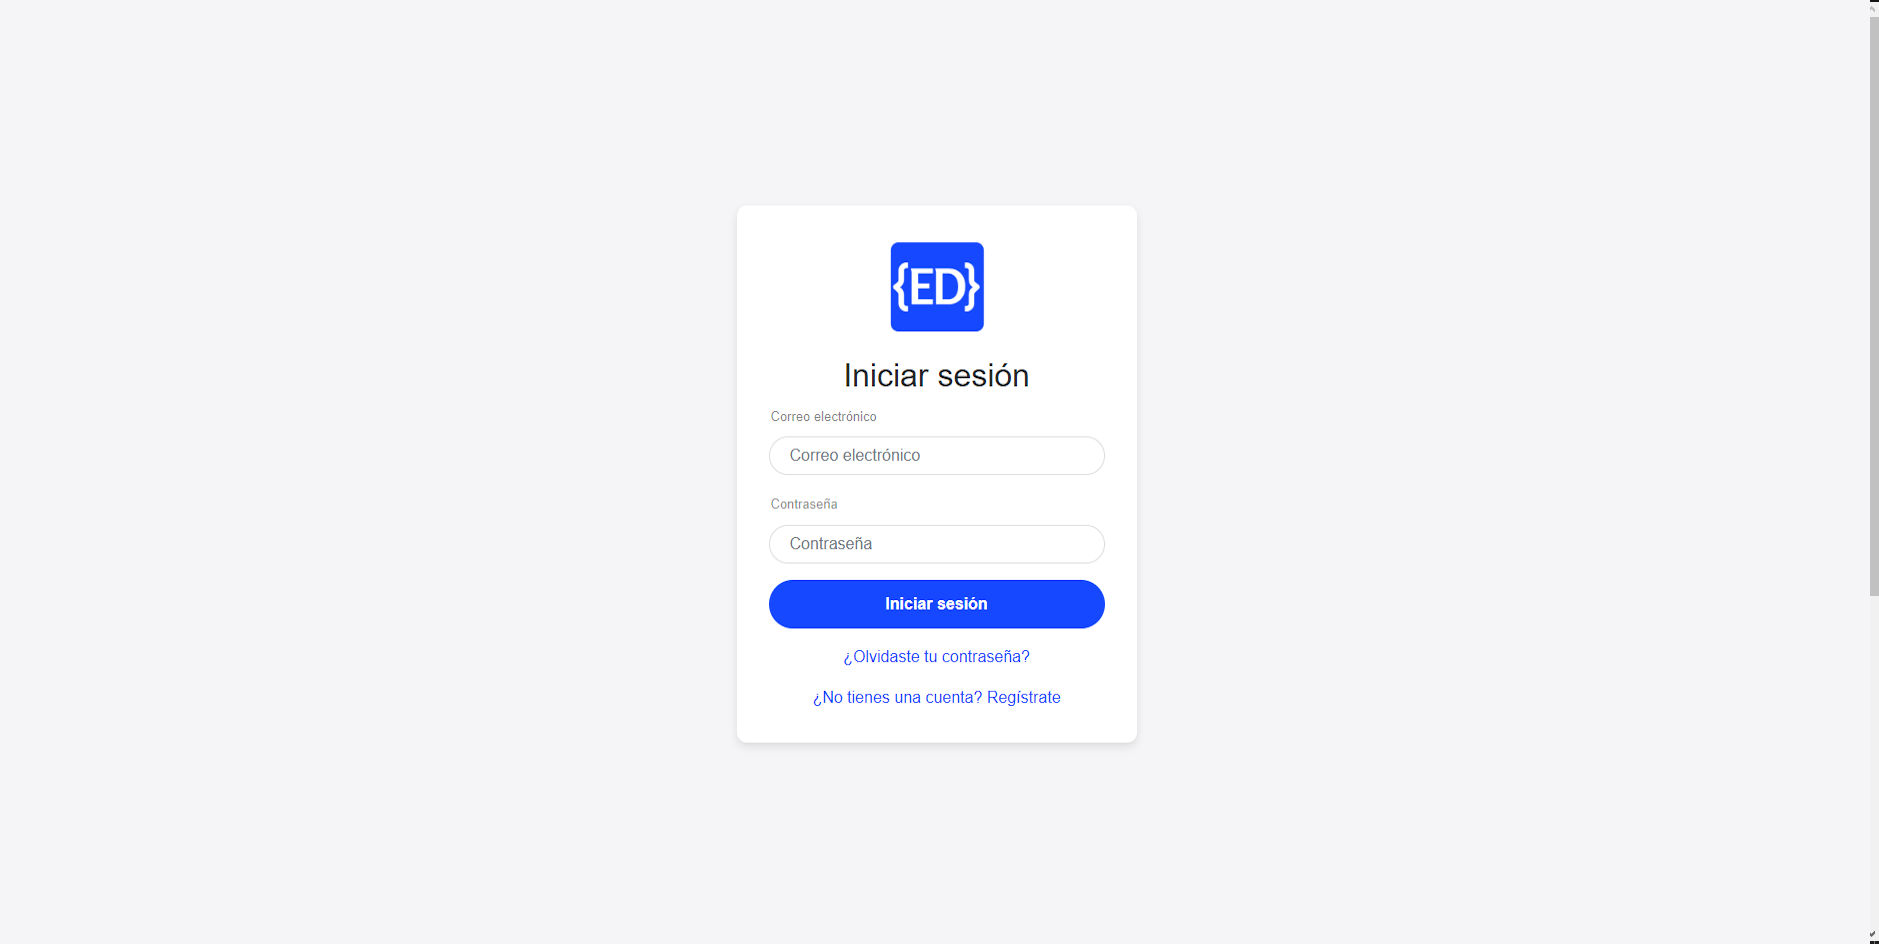
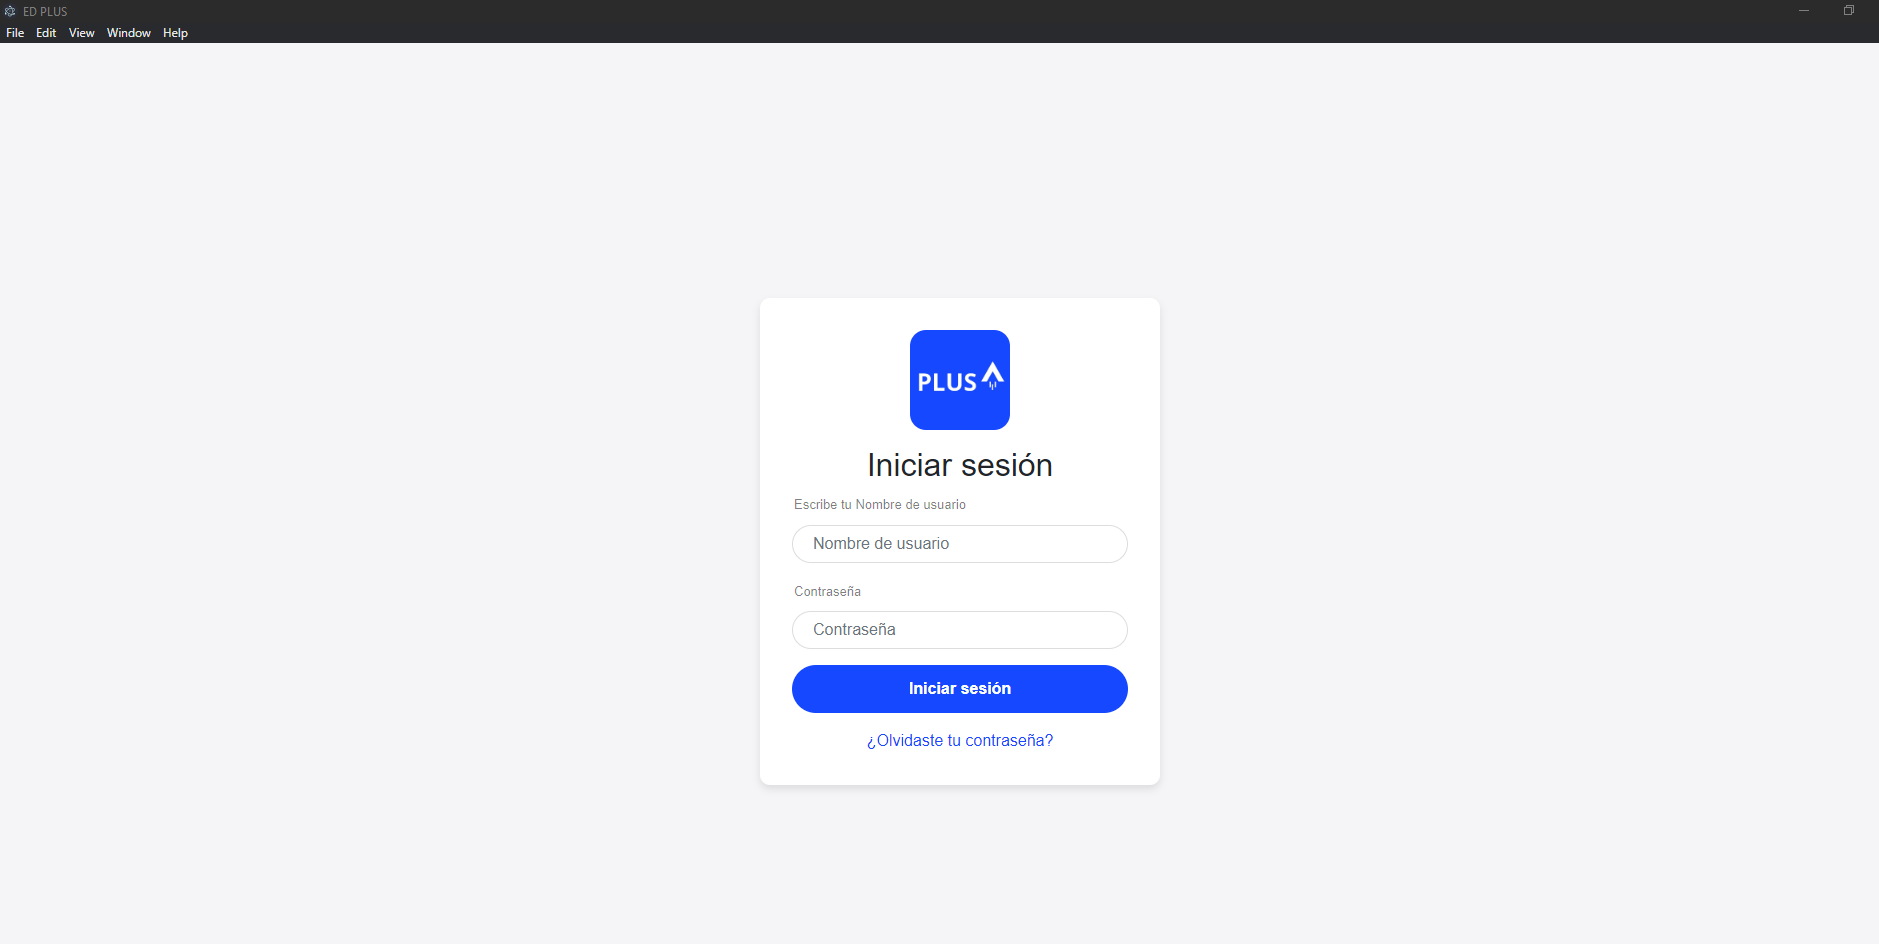
se mejora la descripcion de github

diff --git a/README.md b/README.md
@@ -1,9 +1,12 @@
-# Füd - Point of Sale System for Franchises and Restaurants
-Welcome to Füd, your all-in-one solution for point of sale management in the restaurant industry! This SAAS software is specifically designed for franchises and restaurants seeking a robust and efficient platform to streamline their operations.
+# PLUS 🚀 - ERP, CRM and Point of Sale System for Pymes
+Welcome to {ED} Plus, your all-in-one solution for your company! This SAAS software is specifically designed for Pymes. PLUS is a suite of web based open source business apps.
+
+PLUS Apps can be used as stand-alone applications, but they also integrate seamlessly so you get a full-featured Open Source ERP when you install several Apps.
+
 ![Füd Logo](/FUD.png)
 
 ## Key Features
--**Multi-Restaurant Management:** Füd allows you to manage multiple restaurants from a single platform, simplifying operations and centralizing information.
+-**Multi-Restaurant Management:** PLUS allows you to manage multiple restaurants from a single platform, simplifying operations and centralizing information.
 
 -**Custom Users and Roles:** Control access and permissions for each user based on their role, providing security and efficiency in day-to-day operations.
 
@@ -45,7 +48,7 @@ The dashboard includes the creation of supplies, products, employees, clients, c
 
 
 ## Contributions
-Contributions are welcome! If you encounter any issues or have ideas to enhance Füd, please create an issue or submit a pull request.
+Contributions are welcome! If you encounter any issues or have ideas to enhance PLUS, please create an issue or submit a pull request.
 
 ## License
 This project is licensed under the MIT License - see the LICENSE file for more details.
